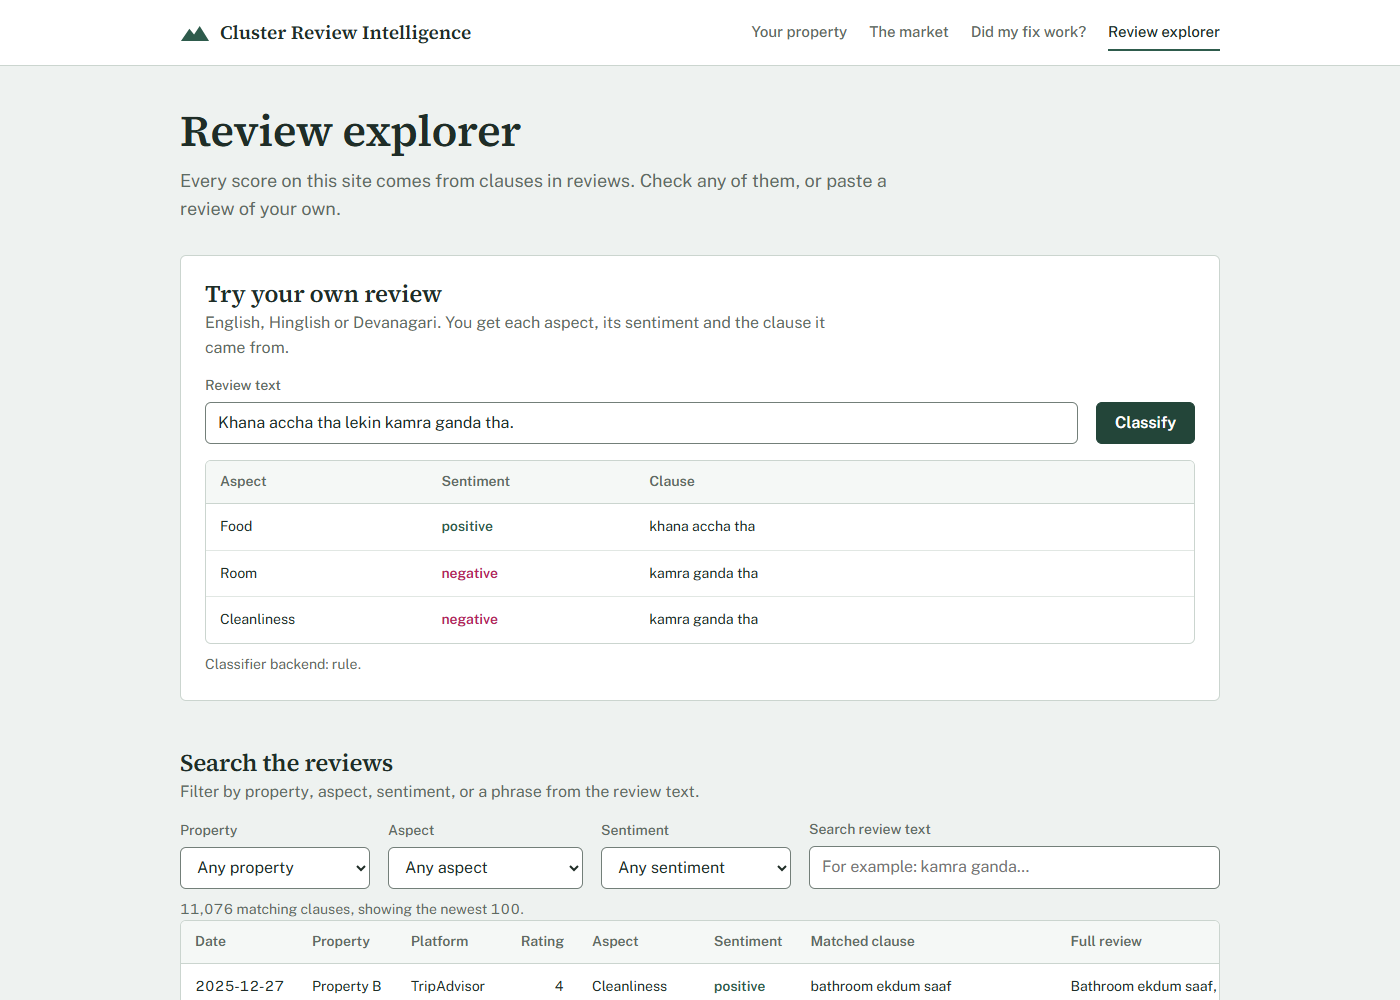
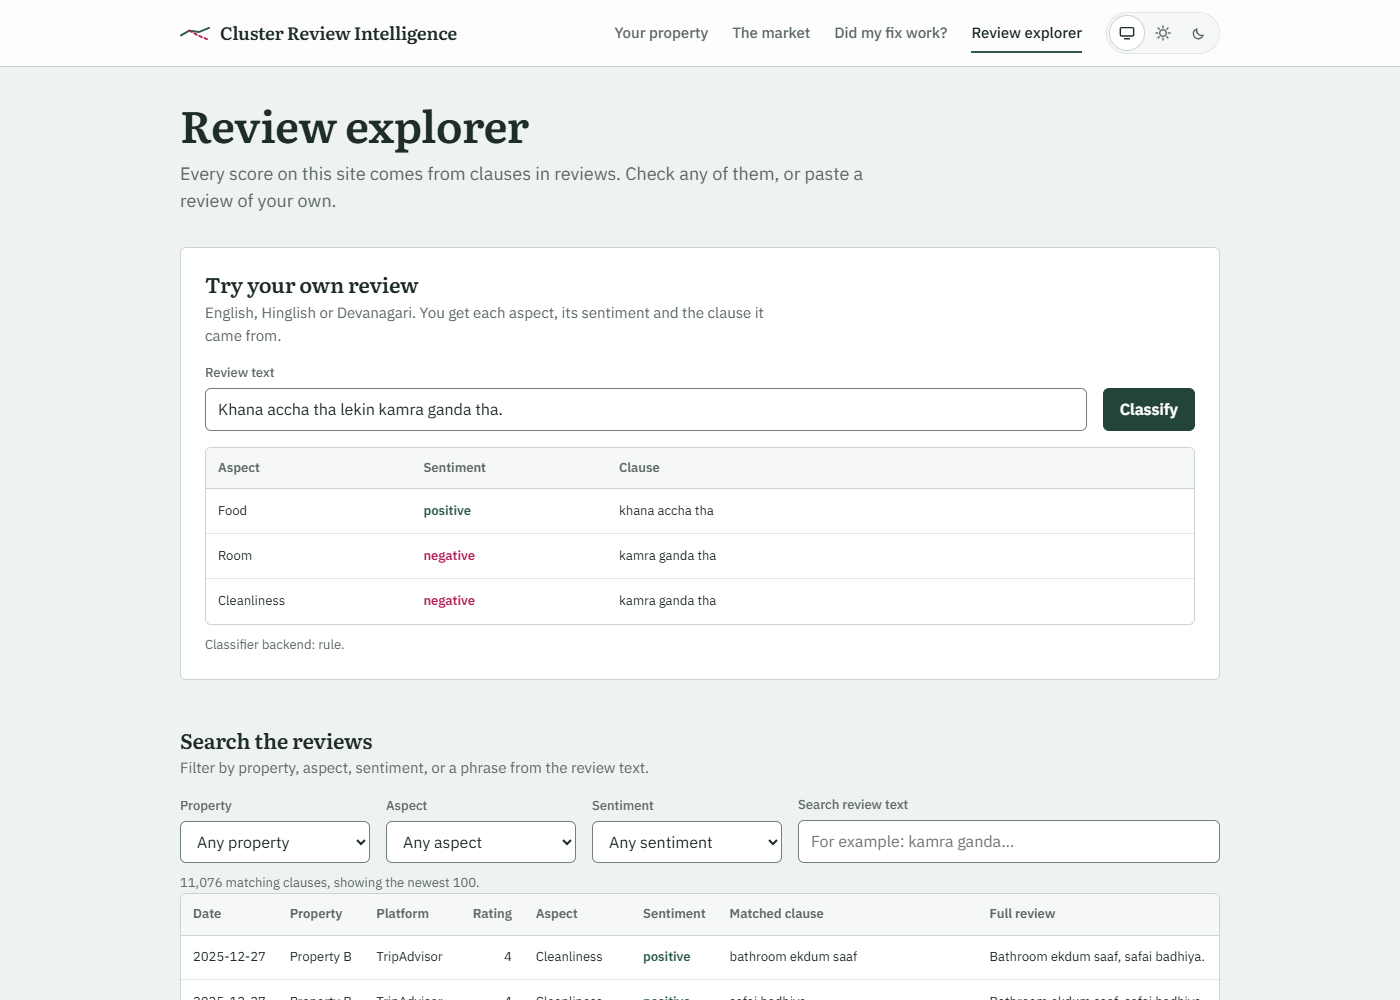
docs: record the redesign, the new fonts and GSAP's licence
web/README.md gains the two-zone layout, the three motion rules, the home
figure, the colour-scheme control and why its boot script sits where it
does, plus what was verified in a browser. docs/CREDITS.md swaps Public
Sans and Source Serif 4 for Literata and the two IBM Plex faces, adds the
hand-authored theme icons, and states GSAP's licence plainly: not
OSI-approved, installed from npm rather than vendored, and confined to one
dynamically imported file.

Screenshots regenerated with scripts/capture_screenshots.py against the
rebuilt UI, so the committed images are not stale. Still SYNTHETIC.

diff --git a/web/README.md b/web/README.md
@@ -88,9 +88,41 @@ charts in `lib/theme.ts`. Colours carry meaning, and the same meaning on every p
 
 Light values shown; the dark variant of each is in `globals.css` and `lib/theme.ts`.
 
-- **Type:** Source Serif 4 for headings, Public Sans for everything else, both
-  self-hosted by `next/font` at build time (no requests to Google from the browser;
-  credits in `docs/CREDITS.md`). Numbers use tabular figures.
+Every page is built as **two zones**: the verdict (roomy, set in the serif, the one
+place with elevation and load motion) and the evidence for it (dense, flat, tabular),
+with a labelled rule between them so a reader always knows which of the two they are
+reading (`ZoneRule` in `components/ui.tsx`).
+
+- **Type:** Literata for headings and the figures that carry a verdict, IBM Plex Sans
+  for the interface and the numbers, and IBM Plex Sans Devanagari behind it in the same
+  stack, all self-hosted by `next/font` at build time (no requests to Google from the
+  browser; credits in `docs/CREDITS.md`). The Devanagari face is not decoration: 781 of
+  the 5,124 sample reviews contain Devanagari, so Hindi clauses in the explorer resolve
+  to a face from the same family instead of a system fallback. Sizes come from the
+  `--t-*` scale in `globals.css` rather than ad-hoc values; numbers use tabular figures.
+- **Motion** (`lib/motion.ts`, GSAP, loaded dynamically so it never blocks first
+  paint): three rules hold everywhere. The DOM already holds the final state, so every
+  helper animates *towards* what the markup rendered and a reader with reduced motion,
+  without JavaScript or with a failed GSAP chunk still sees the finished figure.
+  Motion carries meaning — a bar grows because the quantity grows, a number counts
+  because it is a count — and nothing fades in merely to arrive.
+  `prefers-reduced-motion: reduce` skips animation rather than shortening it.
+  There is one load animation on the site (`components/HeroFigure.tsx`, below) and at
+  most one animated element per other view. Scroll triggers use `IntersectionObserver`,
+  not GSAP's ScrollTrigger, because Plotly measures its charts after mount and changes
+  section heights, which invalidates ScrollTrigger's cached positions.
+- **Home figure** (`components/HeroFigure.tsx`): the product's argument in the order it
+  makes it. A real property's monthly series draws left to right, the month it broke
+  appears, then the change split resolves underneath. Series, month and all three
+  deltas are read from the snapshot; only pixel positions are computed in the browser.
+- **Colour scheme:** light, dark, or match the device, chosen in the header
+  (`components/ThemeToggle.tsx`) and remembered in `localStorage`. CSS and charts
+  resolve the same scheme from one store (`useScheme` in `lib/theme.ts`), so they
+  cannot disagree. A synchronous inline script applies the stored choice before the
+  first paint (`lib/theme-boot.ts`); it has to be a plain `<script>` as the first child
+  of `<body>` — inside `<head>` the App Router drops it from the exported HTML, and
+  `next/script` with `beforeInteractive` only reaches the flight payload under
+  `output: export`, which runs after hydration and so too late to prevent the flash.
 - **Change split** (`ChangeSplit` in `components/ui.tsx`): the plain change, the
   market's change over the same months, and what is left for the property alone, on a
   shared zero. It is the product's question in one figure, so it appears on home,
@@ -112,15 +144,25 @@ Light values shown; the dark variant of each is in `globals.css` and `lib/theme.
 - **Shareable views:** `/property/`, `/fix-check/` and `/explorer/` keep their
   selections (and the explorer's search text) in the query string, so the address bar
   is always a deep link to what is on screen. The explorer shows 100 matches at a time
-  with *Show 100 more*.
-- **Dark mode:** follows the device setting (`prefers-color-scheme`). The CSS variables
-  switch in `globals.css`; charts get the matching literal colours from `usePalette()`
-  in `lib/theme.ts`, so the two lists must change together. The dark palette meets the
-  same targets (lowest text pair: the *not tested* tag, 5.6:1; lowest chart mark: the pale
-  change-split bar, 3.3:1).
+  with *Show 100 more*, marks the searched phrase where it landed in each clause
+  (`Highlight` in `components/ui.tsx`, the same literal case-insensitive comparison the
+  filter uses), and caps the result table's height so its column names stay in view.
+- **Loading:** the snapshot is one JSON file of a few megabytes, so on a hill-town
+  connection it is on screen for a while. `Loading` holds the shape of the page that is
+  coming instead of showing a line of text that is then replaced by a full page, which
+  moved everything under it.
+- **Dark palette:** the CSS variables switch in `globals.css` (once for the device
+  setting, once for an explicit choice — the two blocks must hold the same values);
+  charts get the matching literal colours from `usePalette()` in `lib/theme.ts`, so
+  those lists must change together too. The dark palette meets the same targets
+  (lowest text pair: the *not tested* tag, 5.6:1; lowest chart mark: the pale
+  change-split bar, 3.3:1). The palette itself is unchanged by the 2026-10 redesign.
 - **Accessibility:** skip link, visible `:focus-visible` outlines, labelled controls,
-  `aria-live` on results, scrollable tables reachable by keyboard; no layout wider than
-  the screen at 390 px.
+  `aria-live` on results, scrollable tables reachable by keyboard, and the scheme
+  control as a real `radiogroup` with arrow-key movement. Verified with a headless
+  browser: no heading level is skipped on any page, no control other than an inline
+  text link is under 24 px tall (WCAG 2.5.8), and no layout is wider than the screen at
+  320, 390 or 768 px.
 - **Contrast (WCAG 2.2 AA, measured):** text pairs are at least 4.5:1 (the lowest
   is the *not tested* tag, 4.7:1); chart marks, the change-split bars and
   form-control borders are at least 3:1 against white. Re-check when changing a colour.
@@ -130,7 +172,9 @@ Light values shown; the dark variant of each is in `globals.css` and `lib/theme.
 
 ## Notes
 
-- Dependencies are pinned (CLAUDE.md). Charts use Plotly.js (lazy-loaded client-side).
+- Dependencies are pinned (CLAUDE.md). Charts use Plotly.js and animation uses GSAP,
+  both lazy-loaded client-side; GSAP's licence is not OSI-approved and is spelled out in
+  `docs/CREDITS.md`.
 - Pages are client components; the snapshots are fetched at runtime from the root-relative
   `/data/` (`dataUrl` in `lib/data.tsx`), so a page opened directly by deep link (e.g.
   `/property/?property=…`) loads. Root-relative URLs assume the site is served at a domain

diff --git a/docs/CREDITS.md b/docs/CREDITS.md
@@ -8,8 +8,10 @@
 | `docs/img/*.png`    | Generated by `scripts/make_figures.py`   | From SYNTHETIC data; reproducible.      |
 | `docs/screenshots/*_SYNTHETIC.png` | Screenshots of this project's own web app (`scripts/capture_screenshots.py`) | From SYNTHETIC data; project license. |
 | `web/app/icon.svg` and the header mark | Original, hand-authored for this project | Project license (Apache-2.0). |
-| Public Sans (web app body text) | U.S. Web Design System, via Google Fonts; self-hosted at build time by `next/font` | SIL Open Font License 1.1 |
-| Source Serif 4 (web app headings) | Adobe, via Google Fonts; self-hosted at build time by `next/font` | SIL Open Font License 1.1 |
+| Theme-control icons (sun, crescent, display) in `web/components/ThemeToggle.tsx` | Original, hand-authored for this project | Project license (Apache-2.0). |
+| Literata (web app headings) | TypeTogether, via Google Fonts; self-hosted at build time by `next/font` | SIL Open Font License 1.1 |
+| IBM Plex Sans (web app interface and numbers) | IBM, via Google Fonts; self-hosted at build time by `next/font` | SIL Open Font License 1.1 |
+| IBM Plex Sans Devanagari (Hindi review text in the web app) | IBM, via Google Fonts; self-hosted at build time by `next/font` | SIL Open Font License 1.1 |
 | Map tiles and styles (web app maps) | [OpenFreeMap](https://openfreemap.org) (Positron and Dark styles), built on [OpenMapTiles](https://openmaptiles.org); loaded by the visitor's browser, not stored in the repo | Map data © [OpenStreetMap contributors](https://www.openstreetmap.org/copyright), ODbL; attribution shown on every map |
 | Map renderer | MapLibre GL JS, bundled inside Plotly.js (`plotly.js-dist-min`) | BSD-3-Clause |
 | SYNTHETIC property positions | Generated by `cri.generate.generate_locations` inside a Mussoorie bounding box | Not real hotels; project license |
@@ -43,7 +45,16 @@ A locally trained model also used the Kaggle dataset *Uttarakhand Hotel Reviews
 
 Built with Python, NumPy, pandas, PyYAML, Matplotlib, FastAPI, Uvicorn and
 scikit-learn (training only) (see `pyproject.toml` for pinned versions), and Next.js,
-React and Plotly.js (see `web/package.json`). GitHub Actions used: `actions/checkout`,
+React, Plotly.js and GSAP (see `web/package.json`).
+
+GSAP 3.13.0 animates the web app (`web/lib/motion.ts`). Unlike every other dependency
+here it is **not** under an OSI-approved licence: its `package.json` states
+`Standard 'no charge' license: https://gsap.com/standard-license.` It is installed from
+npm and is not vendored into this repository, so nothing proprietary is redistributed
+here, and this project is free to read and use. If the licence is a problem for a
+downstream user, `web/lib/motion.ts` is the only file that imports it and it is loaded
+dynamically, so the whole animation layer can be replaced in one file without touching
+any page. GitHub Actions used: `actions/checkout`,
 `actions/setup-python`, `actions/setup-node`, `actions/upload-artifact`, `ossf/scorecard-action`,
 `github/codeql-action`, and `step-security/harden-runner` (all pinned by commit
 SHA).
